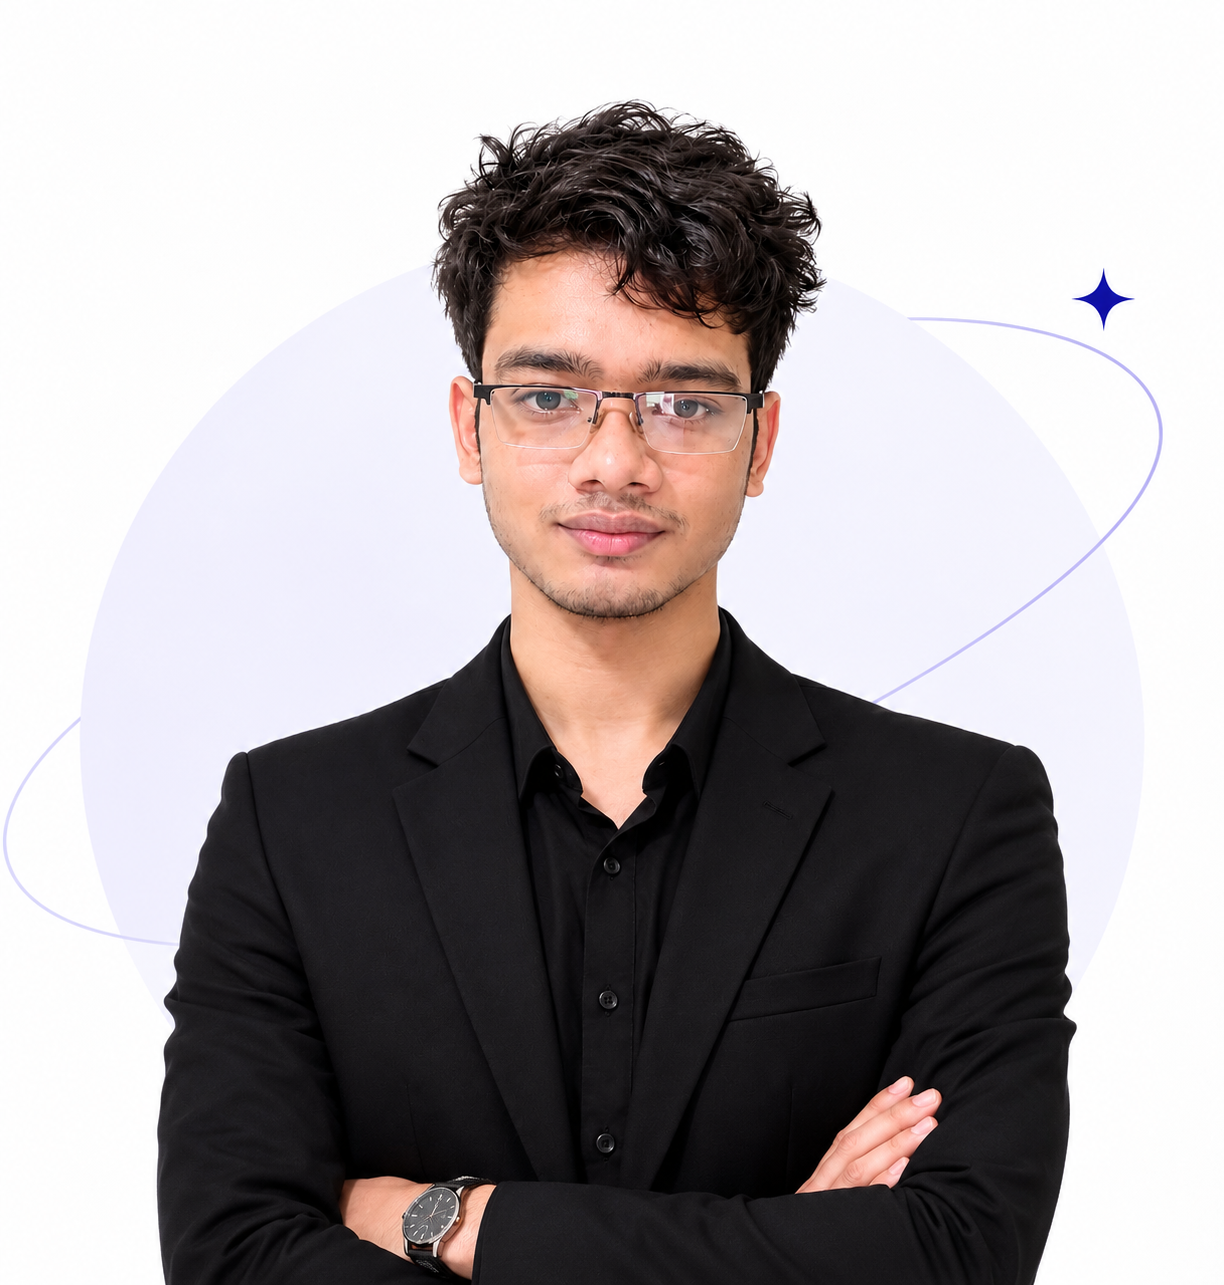
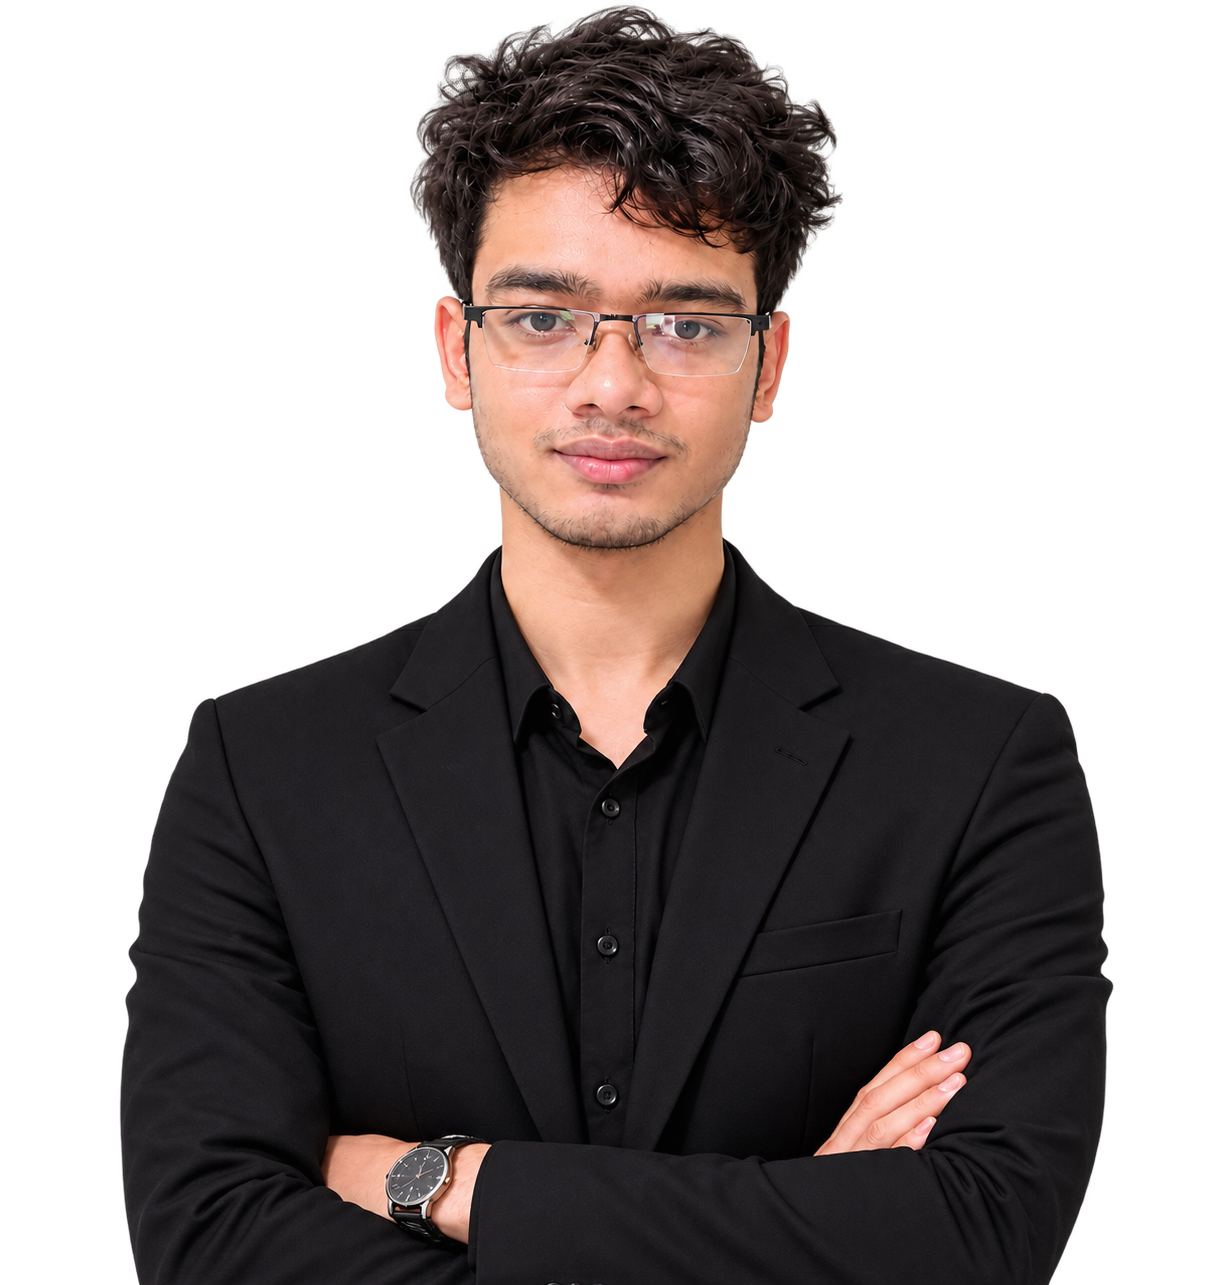
Ready for production

diff --git a/frontend/src/pages/landing-motion.css b/frontend/src/pages/landing-motion.css
@@ -13,16 +13,6 @@
   }
 }
 
-@keyframes landing-image-float {
-  0%,
-  100% {
-    transform: translate(-50%, 0);
-  }
-  50% {
-    transform: translate(-50%, -8px);
-  }
-}
-
 @keyframes landing-float {
   0%,
   100% {
@@ -77,10 +67,6 @@
 .premeet-page .hero-copy > :nth-child(4) { animation-delay: 310ms; }
 .premeet-page .hero-copy > :nth-child(5) { animation-delay: 380ms; }
 
-.premeet-page .hero-visual {
-  animation: landing-rise-in 850ms var(--landing-ease) 180ms both;
-}
-
 .premeet-page .hero-halo {
   animation: landing-float 7s ease-in-out 1s infinite;
 }
@@ -89,12 +75,12 @@
   animation: landing-orbit 36s linear infinite;
 }
 
-.premeet-page .hero-visual img {
-  animation: landing-image-float 6s ease-in-out 1.2s infinite;
-}
-
 .premeet-page .hero-sparkle {
   animation: landing-sparkle 3s ease-in-out 1.2s infinite;
+}
+
+.premeet-page .hero-sparkle-secondary {
+  animation-delay: 650ms;
 }
 
 .premeet-page .problem-item,

diff --git a/frontend/src/components/landing/hero.jsx b/frontend/src/components/landing/hero.jsx
@@ -39,6 +39,8 @@ export default function Hero() {
                 <div className="hero-halo" />
                 <div className="hero-orbit" />
                 <span className="hero-sparkle" aria-hidden="true">✦</span>
+                <span className="hero-sparkle" aria-hidden="true" style={{ top: "5rem", right: "1.2rem" }}>✦</span>
+                <span className="hero-sparkle hero-sparkle-secondary" aria-hidden="true">✧</span>
                 <img src="/brand/premeet-founder.png" alt="PreMeet founder standing confidently in a black suit" />
             </div>
         </section>

diff --git a/frontend/src/components/landing/hero.css b/frontend/src/components/landing/hero.css
@@ -148,6 +148,13 @@
   color: oklch(0.48 0.22 265);
   font-size: 32px;
 }
+.hero-sparkle-secondary {
+  left: 9%;
+  top: 32%;
+  right: auto;
+  color: oklch(0.76 0.15 82);
+  font-size: 20px;
+}
 .dark .eyebrow {
   background: oklch(0.22 0.035 270);
 }
